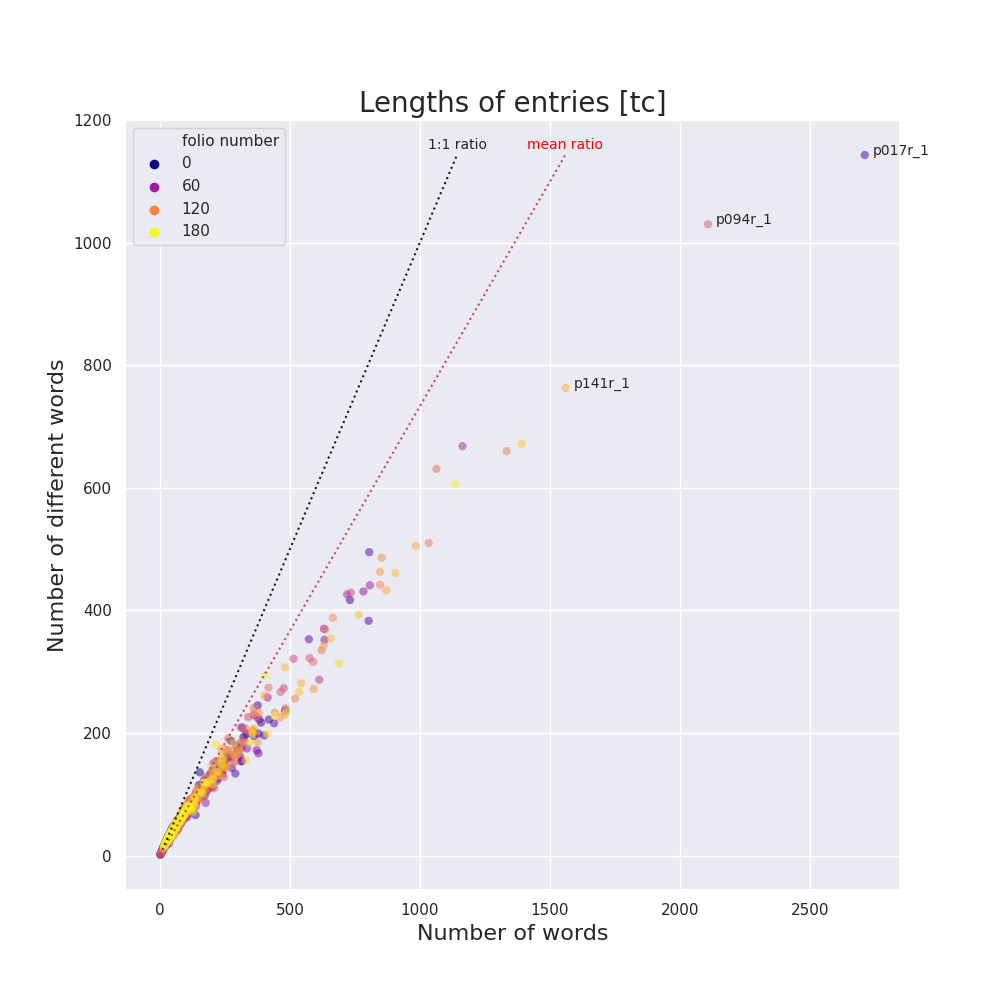
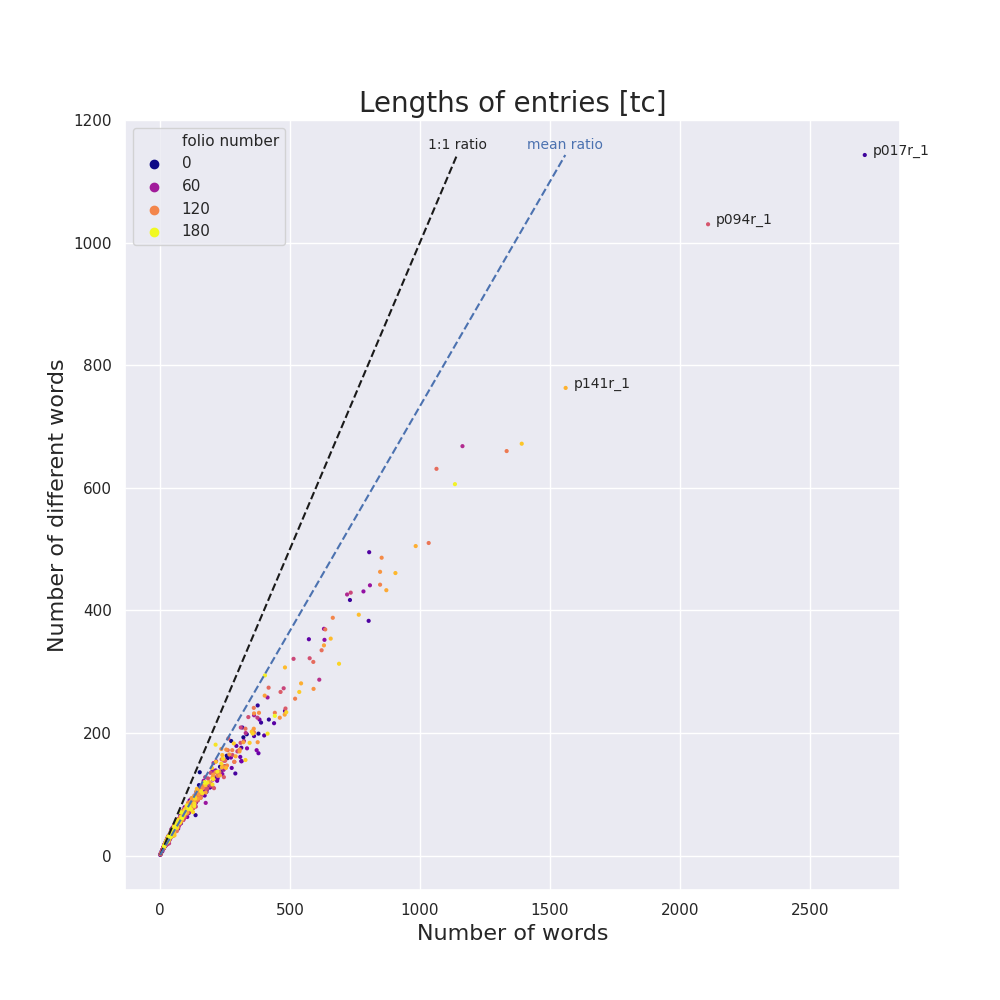
renamed language barplots + improved scatterplots readability

diff --git a/manuscript_visualizations.py b/manuscript_visualizations.py
@@ -314,8 +314,8 @@ def entries_lengths_scatterplot(logscale):
 
         scatter = sns.scatterplot(x = "lengths", y = "normalized_lengths",
                                   hue = "folio number", data = df,
-                                  linewidth = 0, alpha = 0.5, size_norm = 1,
-                                  palette = "plasma")
+                                  linewidth = 0, alpha = 1, size_norm = 1,
+                                  palette = "plasma", marker = ".")
 
         for line in range(0, df.shape[0]):
             if (df.lengths[line] > 1500):
@@ -343,16 +343,16 @@ def entries_lengths_scatterplot(logscale):
         max_words = np.max(lengths)
         max_diff_words = np.max(normalized_lengths)
         minmax = np.min([max_words, max_diff_words])
-        scatter.plot([1, minmax], [1, minmax], ':k')
+        scatter.plot([1, minmax], [1, minmax], "--k")
         scatter.text(minmax, minmax + 10, "1:1 ratio", horizontalalignment = "center", fontsize = 10)
 
         ratios = [lengths[i]/normalized_lengths[i] for i in range(len(lengths))]
         mean_ratio = np.mean(ratios)
-        scatter.plot([1, minmax*mean_ratio], [1, minmax], ':r')
+        scatter.plot([1, minmax*mean_ratio], [1, minmax], "--b", alpha = 1)
         if logscale:
-            scatter.text(minmax*mean_ratio, minmax + 200, "mean ratio", horizontalalignment = "center", fontsize = 10, color = "red")
+            scatter.text(minmax*mean_ratio, minmax + 200, "mean ratio", horizontalalignment = "center", fontsize = 10, color = "b")
         else:
-            scatter.text(minmax*mean_ratio, minmax + 10, "mean ratio", horizontalalignment = "center", fontsize = 10, color = "red")
+            scatter.text(minmax*mean_ratio, minmax + 10, "mean ratio", horizontalalignment = "center", fontsize = 10, color = "b")
 
         fig = scatter.get_figure()
         if logscale:
@@ -527,10 +527,10 @@ if not os.path.exists(viz_path):
 language_tags = ["<fr>", "<el>", "<it>", "<la>", "<oc>", "<po>"]
 languages = ["French", "Greek", "Italian", "Latin", "Occitan", "Poitevin"]
 margin_types = ["left-bottom", "right-bottom", "bottom", "right-middle", "left-middle", "right-top", "left-top", "top"]
-semantic_tags = []
+semantic_tags = ["al", "bp", "cn", "env", "m", "md", "ms", "mu", "pa", "pl", "pn", "pro", "sn", "tl", "tmp", "wp"]
 
 #tags_scatterplot(language_tags, "languages_scatterplot", title)
-
+"""
 tags_bubbleplot(language_tags, "languages_bubbles", "Other languages in the English translation of the manuscript", False)
 tags_bubbleplot(language_tags, "languages_bubbles_normalized", "Other languages in the English translation of the manuscript (normalized by entry length)", True)
 
@@ -552,15 +552,16 @@ tags_barplot(margin_types, "margins_barplot", "Margins in the manuscript", True)
 for i in range(len(language_tags)):
     tag = language_tags[i]
     language = languages[i]
-    tags_barplot([tag], tag + "_barplot", language + " in the manuscript", True)
+    tags_barplot([tag], tag.replace("<", "").replace(">", "") + "_barplot",
+                 language + " in the manuscript", True)
 
 print("Barplots finished.")
-
+"""
 entries_lengths_scatterplot(True)
 entries_lengths_scatterplot(False)
 
 print("Scatterplots finished.")
-
+"""
 entries_lengths_distplot()
 
 print("Distplots finished.")
@@ -570,5 +571,5 @@ tags_by_category_swarmplot(margin_types, "margins_swarmplot", "Margins in the ma
 tags_by_category_swarmplot(language_tags, "languages_swarmplot", "Other languages in the English translation of the manuscript")
 
 print("Swarmplot finished.")
-
+"""
 print("All done!")
